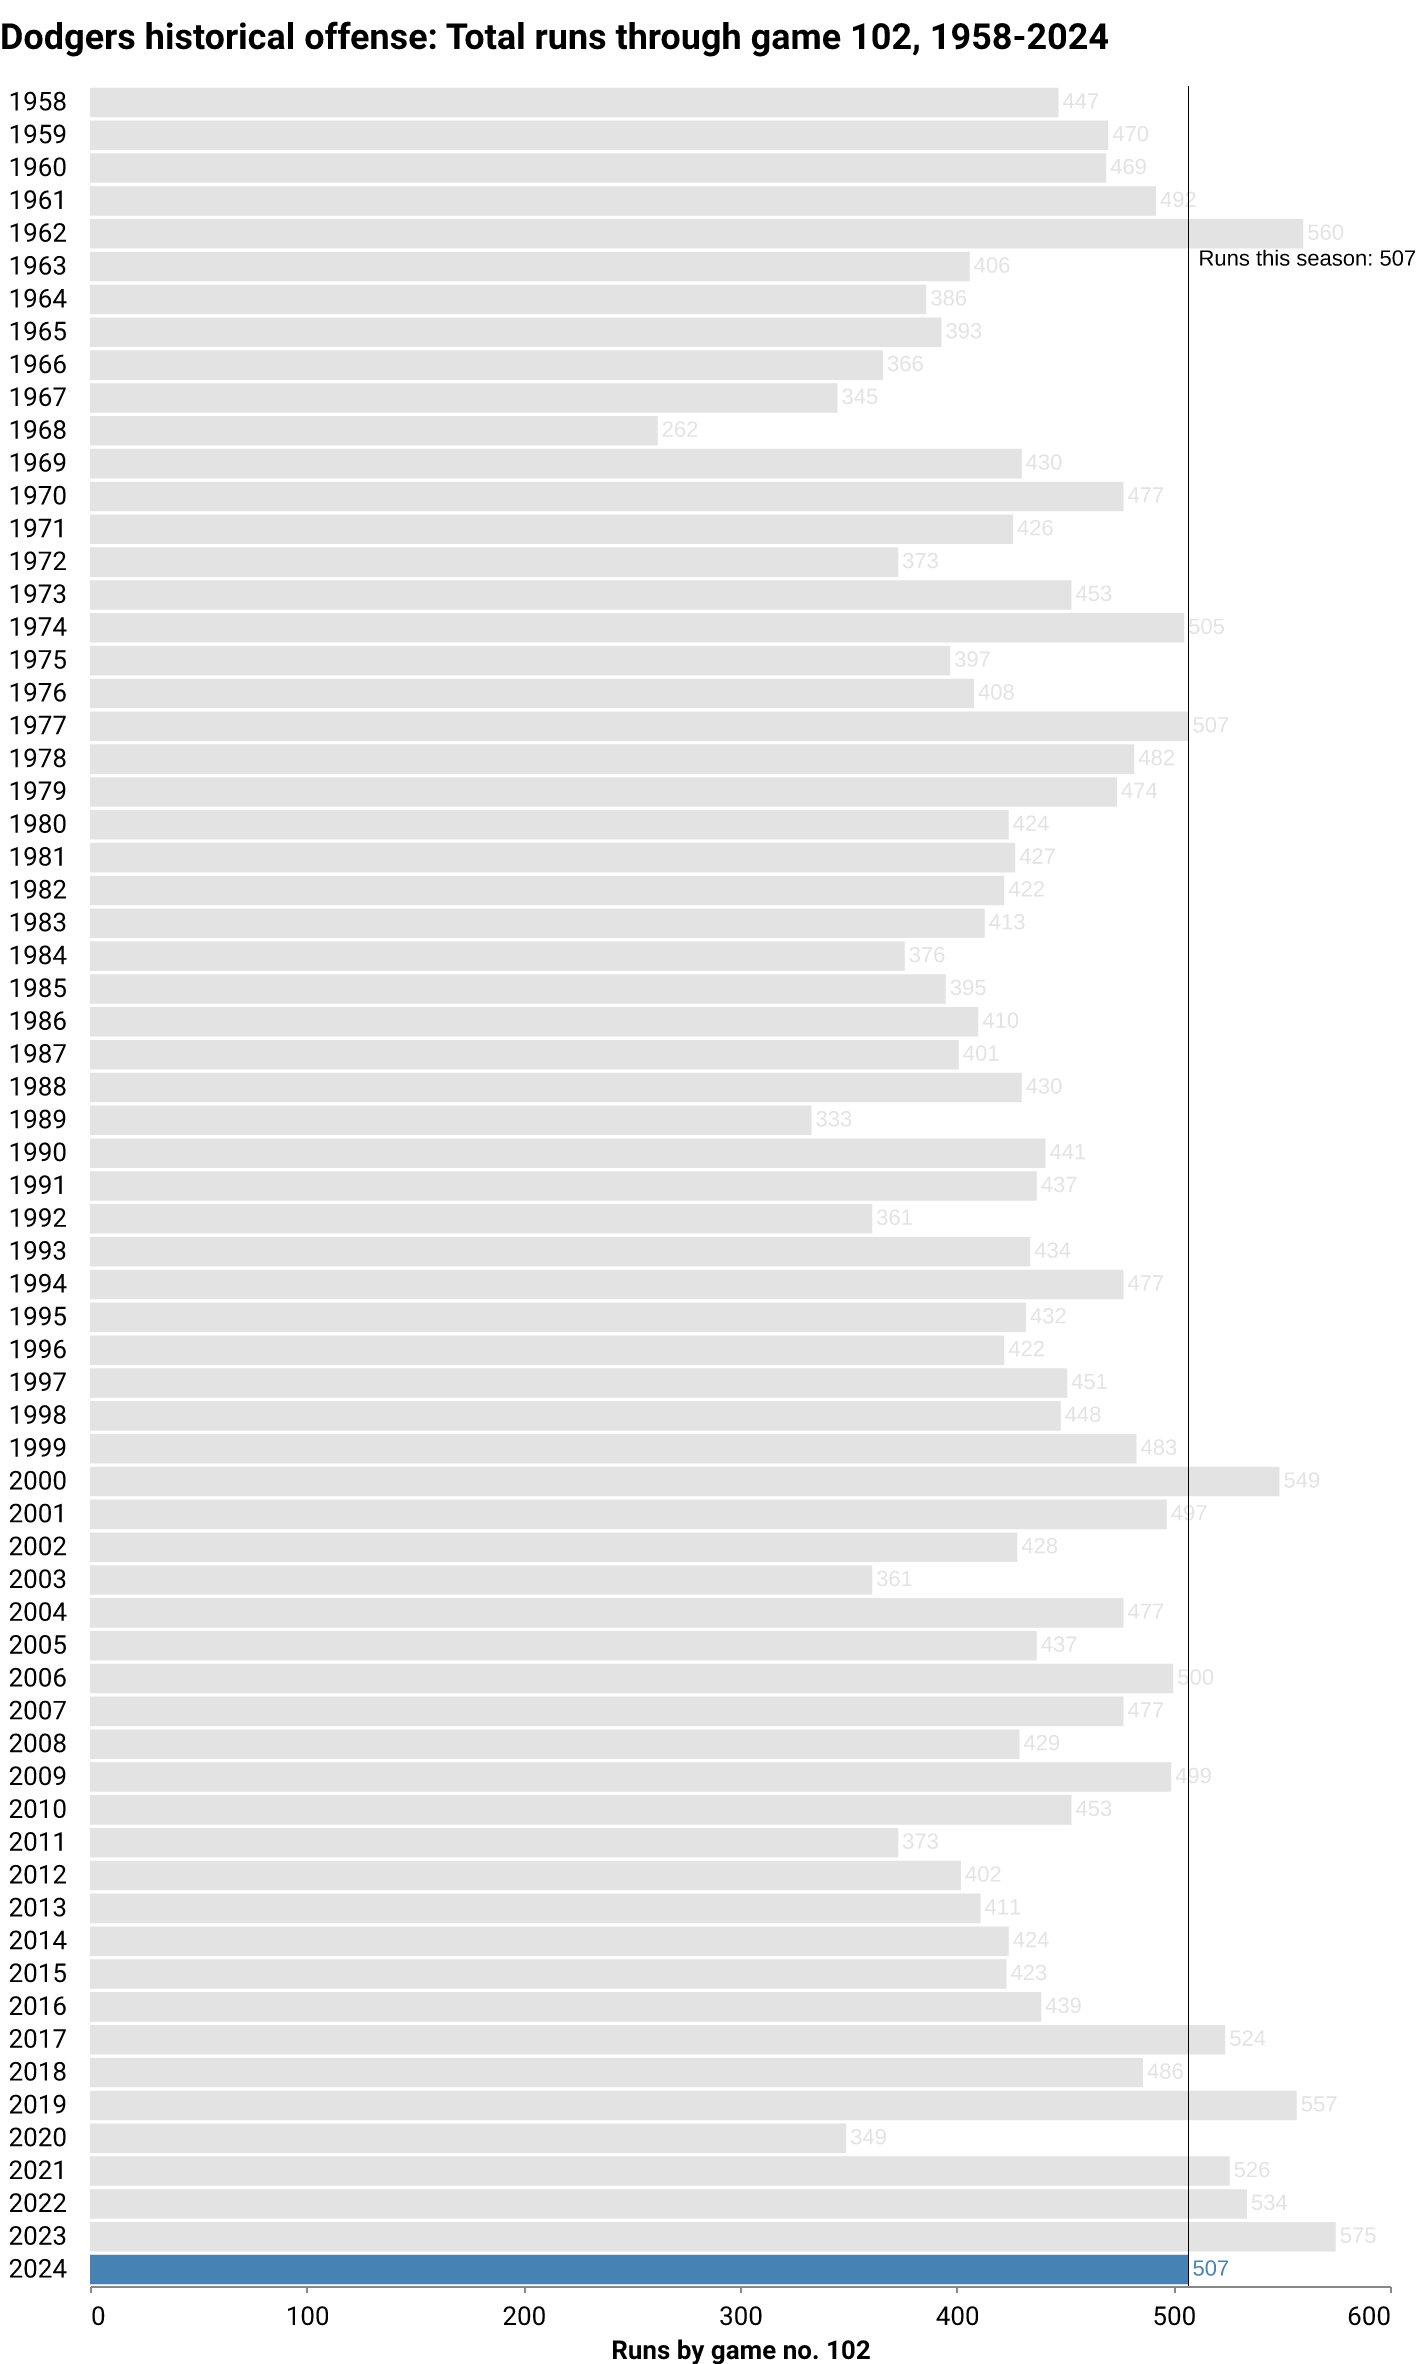
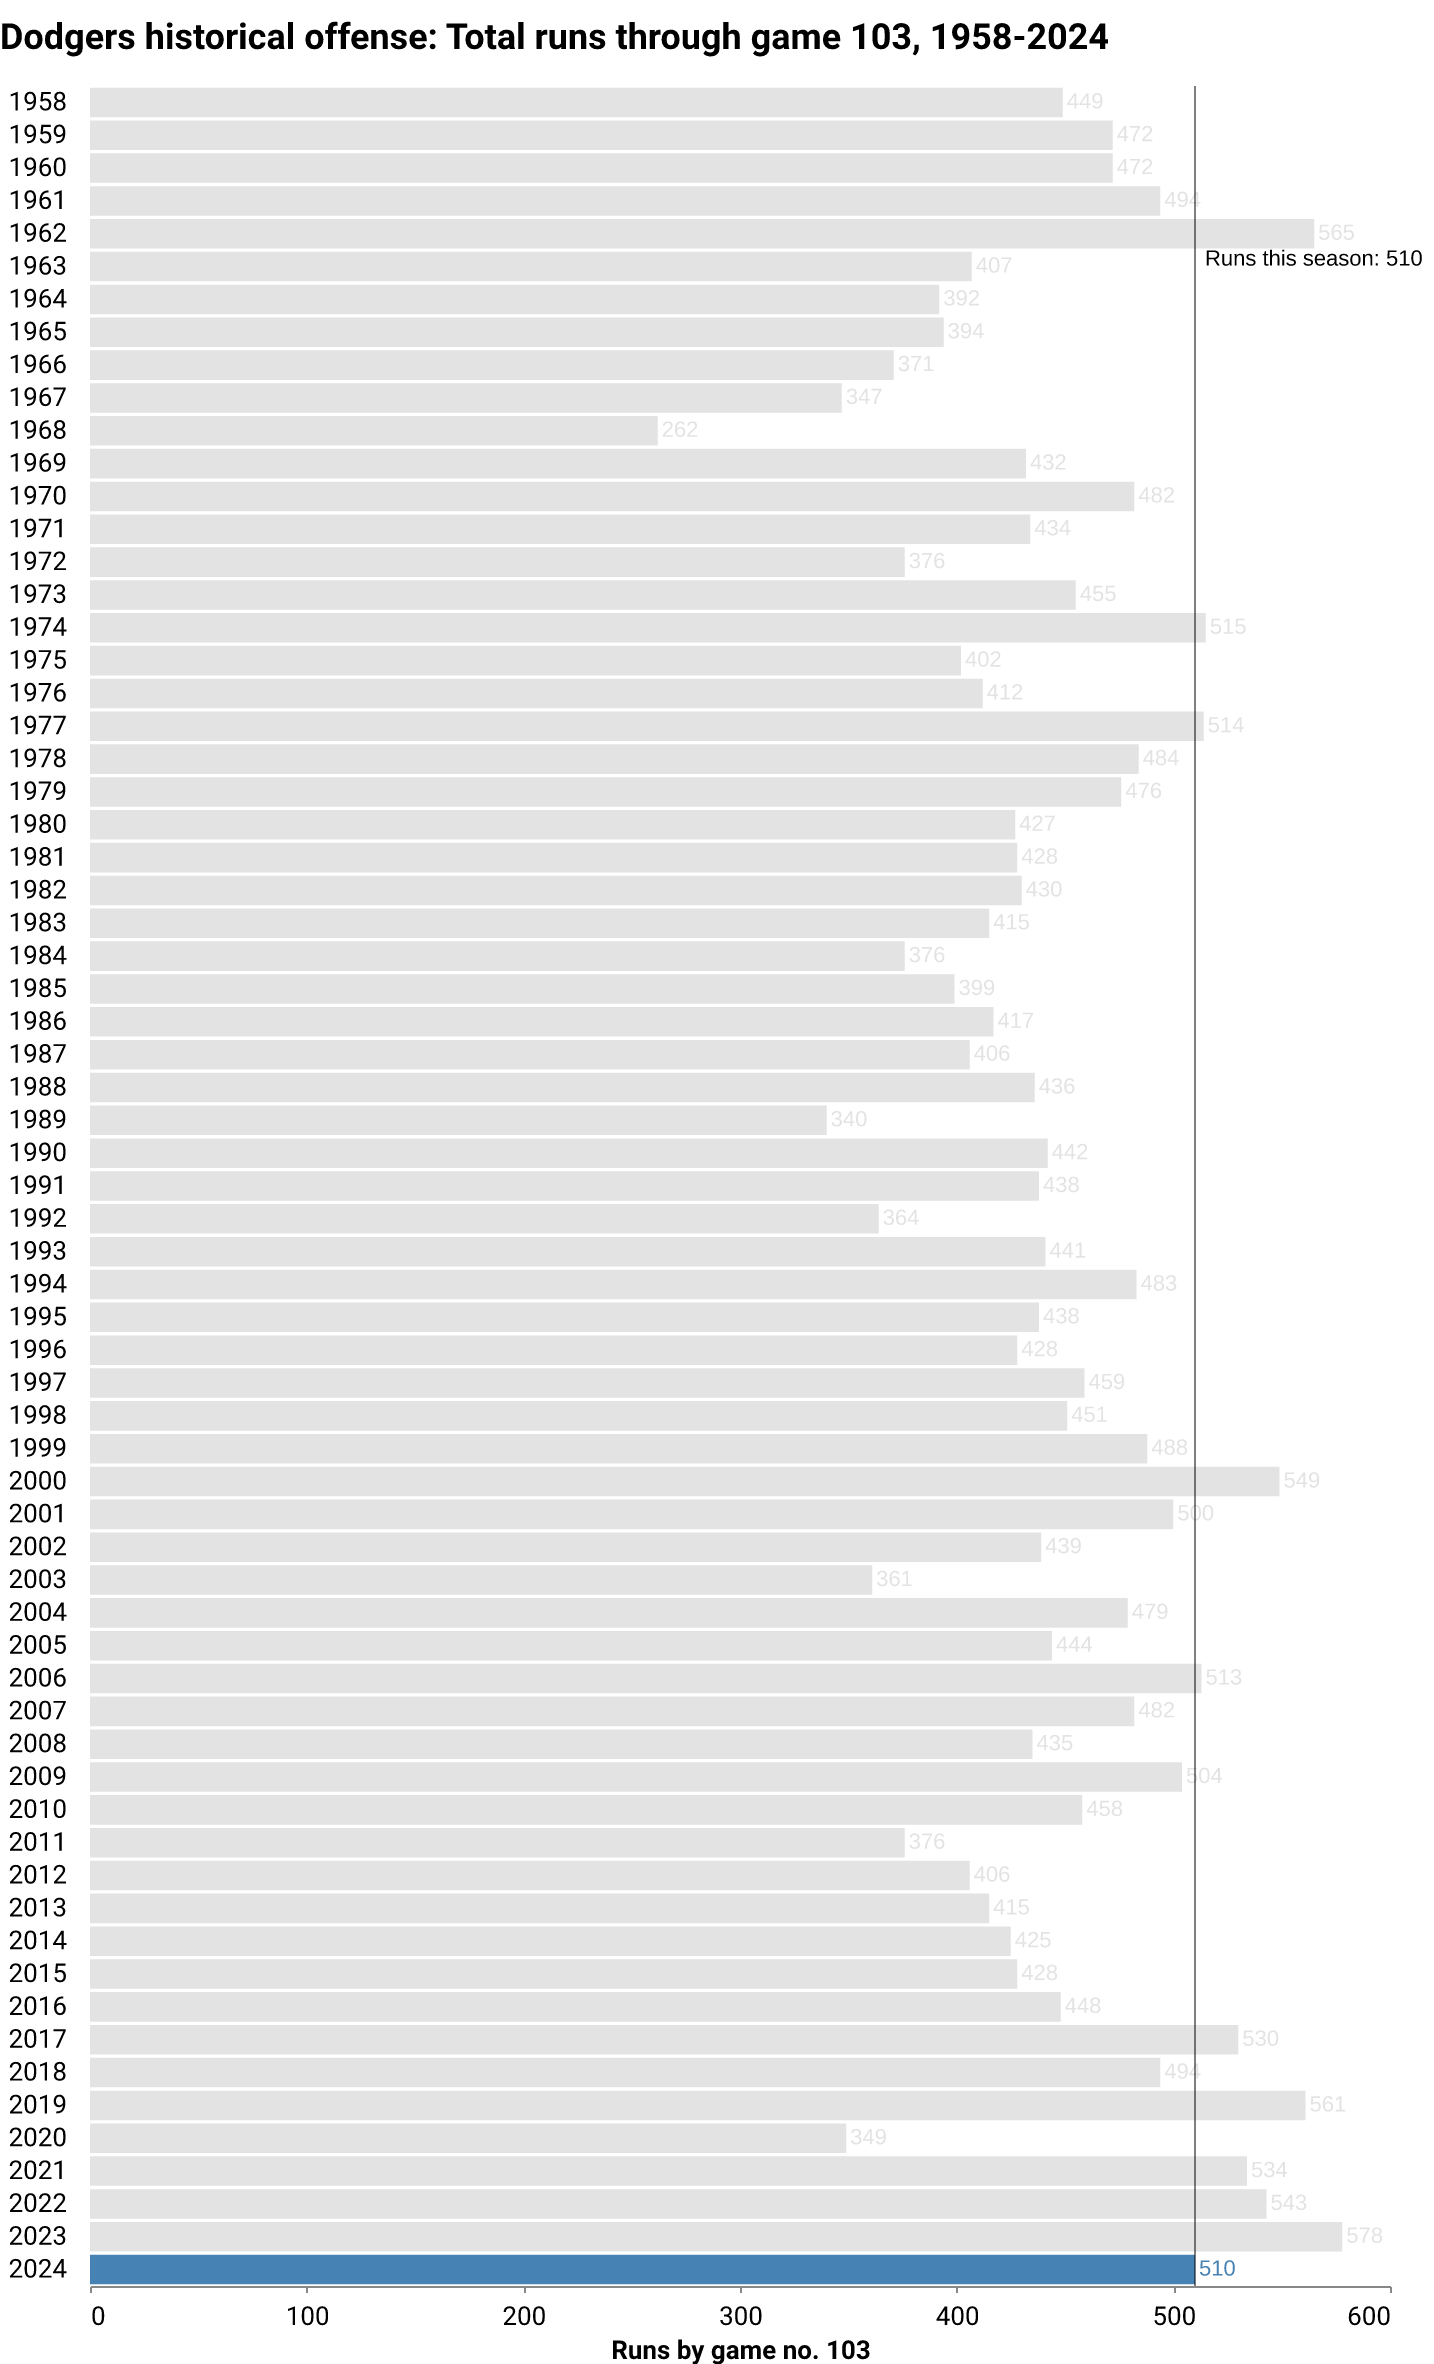
deploy: 51fbf7ddabd09cf826122ee9fd28635bc4576e45

diff --git a/index.html b/index.html
@@ -177,14 +177,14 @@
     
     
     
-        <i class="fa-solid fa-arrow-trend-up" style="color: #005a9c;"></i>
+        <i class="fa-solid fa-arrow-trend-down" style="color: #ef3e42;"></i>
     
 </div>
 <h1 class="headline">How are the Dodgers doing?</h1>
 <p class="subhead">
     
     
-    <span class="highlight">LOS ANGELES</span> <span class="updated">(July 25)</span> — After <span class="highlight">102</span> games this season, the Dodgers are in <span class="highlight">1st</span> place in the National League West division. The team has compiled a <span class="highlight">61-41</span> record, winning <span class="highlight">60%</span> of its games so far. The last game was a <span class="highlight">5-2</span> home <span class="highlight">win</span> against the San Francisco Giants in front of <span class="highlight">52,627</span> fans. They've won <span class="highlight">6 of the last 10</span>.
+    <span class="highlight">LOS ANGELES</span> <span class="updated">(July 25)</span> — After <span class="highlight">103</span> games this season, the Dodgers are in <span class="highlight">1st</span> place in the National League West division. The team has compiled a <span class="highlight">61-42</span> record, winning <span class="highlight">59%</span> of its games so far. The last game was a <span class="highlight">3-8</span> home <span class="highlight">loss</span> against the San Francisco Giants in front of <span class="highlight">54,070</span> fans. They've won <span class="highlight">6 of the last 10</span>.
 </p>
 </div>
 
@@ -209,7 +209,7 @@
             <p class="card-text">61</p>
           </div>
           <div class="card-footer text-muted">
-        This point last season: 58
+        This point last season: 59
           </div>
         </div>
       </div>
@@ -222,7 +222,7 @@
             Losses
           </div>
           <div class="card-body">
-            <p class="card-text">41</p>
+            <p class="card-text">42</p>
           </div>
           <div class="card-footer text-muted">
         This point last season: 44
@@ -238,10 +238,10 @@
             Record
           </div>
           <div class="card-body">
-            <p class="card-text">61-41</p>
+            <p class="card-text">61-42</p>
           </div>
           <div class="card-footer text-muted">
-        This point last season: 58-44
+        This point last season: 59-44
           </div>
         </div>
       </div>
@@ -254,7 +254,7 @@
             Win percentage
           </div>
           <div class="card-body">
-            <p class="card-text">60%</p>
+            <p class="card-text">59%</p>
           </div>
           <div class="card-footer text-muted">
         This point last season: 56%
@@ -270,7 +270,7 @@
             Games up/back
           </div>
           <div class="card-body">
-            <p class="card-text">8.5</p>
+            <p class="card-text">7.5</p>
           </div>
           <div class="card-footer text-muted">
         Division rank: 1
@@ -286,10 +286,10 @@
             Avg. home attendance
           </div>
           <div class="card-body">
-            <p class="card-text">48,036</p>
+            <p class="card-text">48,150</p>
           </div>
           <div class="card-footer text-muted">
-        Home games this season: 52
+        Home games this season: 53
           </div>
         </div>
       </div>
@@ -302,7 +302,7 @@
             Runs
           </div>
           <div class="card-body">
-            <p class="card-text">507</p>
+            <p class="card-text">510</p>
           </div>
           <div class="card-footer text-muted">
         League rank: 1
@@ -318,10 +318,10 @@
             Runs against
           </div>
           <div class="card-body">
-            <p class="card-text">408</p>
+            <p class="card-text">416</p>
           </div>
           <div class="card-footer text-muted">
-        This point last season: 479
+        This point last season: 481
           </div>
         </div>
       </div>
@@ -334,10 +334,10 @@
             Run differential
           </div>
           <div class="card-body">
-            <p class="card-text">99</p>
+            <p class="card-text">94</p>
           </div>
           <div class="card-footer text-muted">
-        This point last season: 96
+        This point last season: 97
           </div>
         </div>
       </div>
@@ -408,7 +408,7 @@
             Batting average
           </div>
           <div class="card-body">
-            <p class="card-text">.254</p>
+            <p class="card-text">.253</p>
           </div>
           <div class="card-footer text-muted">
         Last decade average: .253
@@ -440,7 +440,7 @@
             Home runs/game
           </div>
           <div class="card-body">
-            <p class="card-text">1.36</p>
+            <p class="card-text">1.35</p>
           </div>
           <div class="card-footer text-muted">
         Last decade average: 1.36
@@ -456,7 +456,7 @@
             On-base percentage
           </div>
           <div class="card-body">
-            <p class="card-text">.335</p>
+            <p class="card-text">.334</p>
           </div>
           <div class="card-footer text-muted">
         Last decade average: .332
@@ -488,7 +488,7 @@
             Stolen bases/game
           </div>
           <div class="card-body">
-            <p class="card-text">0.61</p>
+            <p class="card-text">0.6</p>
           </div>
           <div class="card-footer text-muted">
         Rate all last season: 0.65
@@ -598,7 +598,7 @@
             Strikeouts
           </div>
           <div class="card-body">
-            <p class="card-text">870</p>
+            <p class="card-text">880</p>
           </div>
           <div class="card-footer text-muted">
         League rank: 6
@@ -614,10 +614,10 @@
             Walks
           </div>
           <div class="card-body">
-            <p class="card-text">317</p>
+            <p class="card-text">326</p>
           </div>
           <div class="card-footer text-muted">
-        League rank: 10
+        League rank: 12
           </div>
         </div>
       </div>
@@ -630,10 +630,10 @@
             ERA
           </div>
           <div class="card-body">
-            <p class="card-text">3.71</p>
+            <p class="card-text">3.75</p>
           </div>
           <div class="card-footer text-muted">
-        League rank: 3
+        League rank: 5
           </div>
         </div>
       </div>
@@ -708,7 +708,7 @@
     </div>
 </div>
 
-  <p class="dated">Notes: Last updated July 25, 2024, 4:03 AM PT. More <a href="https://github.com/stiles/dodgers/blob/main/README.md">about the data</a>.</p>
+  <p class="dated">Notes: Last updated July 25, 2024, 9:03 AM PT. More <a href="https://github.com/stiles/dodgers/blob/main/README.md">about the data</a>.</p>
   
 </div>
 
